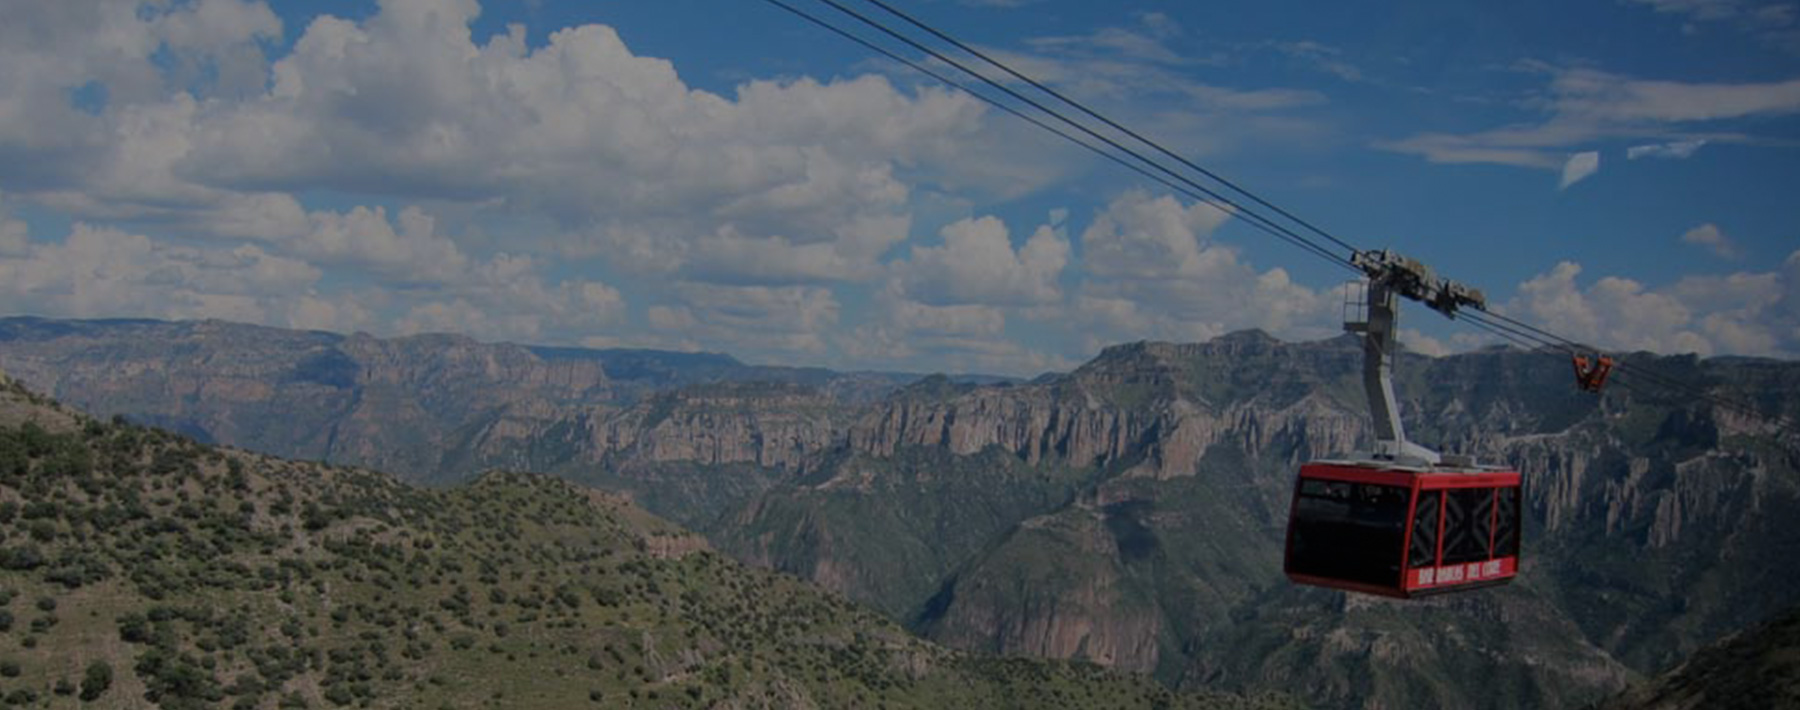
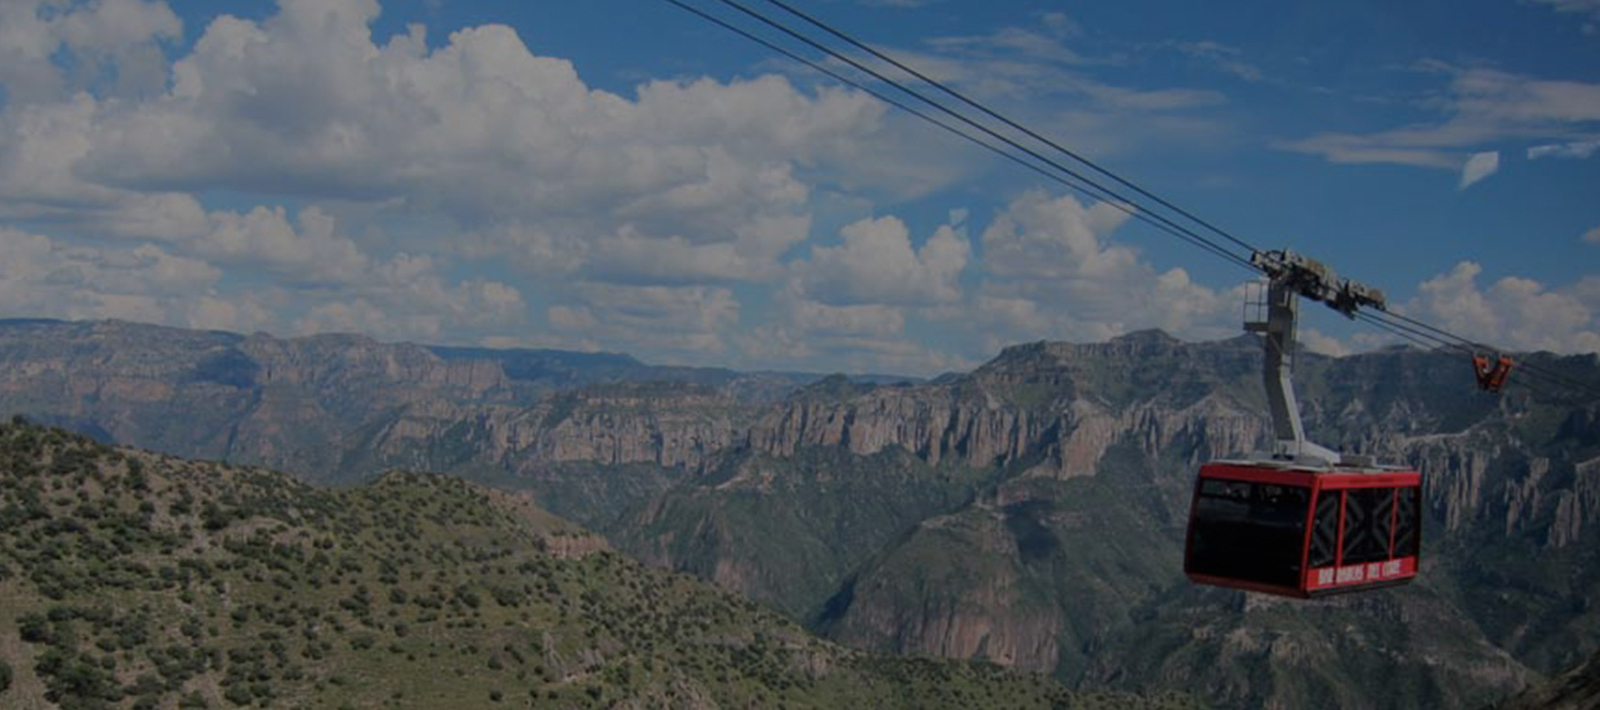
minor changes

diff --git a/public/css/style.css b/public/css/style.css
@@ -377,13 +377,17 @@ body {
     background-color: #343438;
     opacity: .6;
     border: 1px solid #343438;
-    width: 18px;
-    height: 18px;
+    width: 16px;
+    height: 16px;
+    transition: background-color 300ms ease, border 300ms ease;
 }
 
 .banner .carousel .carousel-indicators li.active {
-    width: 20px;
-    height: 20px;
+    width: 18px;
+    height: 18px;
+    background-color: #ffd400;
+    border: 1px solid #ffd400;
+    opacity: 1;
 }
 
 /* NOSOTROS */
@@ -519,25 +523,25 @@ body {
 }
 
 /* BLOG */
-.blog .img-bg {
+.blog .blog-feed .img-bg {
     height: 400px;
 }
 
-.blog h4 {
+.blog .blog-feed h4 {
     font-size: 16x;
     margin: 20px 0;
 }
 
-.blog h5 {
+.blog .blog-feed h5 {
     color: #767d7f;
     margin: 0 0 15px 0;
 }
 
-.blog p {
+.blog .blog-feed p {
     margin-bottom: 15px;
 }
 
-.blog a {
+.blog .blog-feed a {
     color: #004875;
     text-decoration: none!important;
     display: inline-block;
@@ -546,16 +550,45 @@ body {
     transition: background 300ms ease;
 }
 
-.blog a:hover,
-.blog a:focus {
+.blog .blog-feed a:hover,
+.blog .blog-feed a:focus {
     color: #fff;
     background-color: #004875;
 }
 
-.blog a:focus {
+.blog .blog-feed a:focus {
     -moz-box-shadow:    inset 0 0 10px rgba(0,0,0,.4);
     -webkit-box-shadow: inset 0 0 10px rgba(0,0,0,.4);
     box-shadow:         inset 0 0 10px rgba(0,0,0,.4);
+}
+
+.blog .blog-nav {
+    margin-top: 30px;
+}
+
+.blog .blog-nav a i {
+    font-weight: 100;
+    font-size: 40px;
+    border-radius: 50%;
+    border: 2px solid #7f7f7f;
+    color: #7f7f7f;
+    position: relative;
+    height: 38px;
+    width: 38px;
+}
+
+.blog .blog-nav a i::before {
+    top: 50%;
+    transform: translateY(-50%);
+    position: absolute;
+}
+
+.blog .blog-nav a i.fa-angle-left::before {
+    left: 7px;
+}
+
+.blog .blog-nav a i.fa-angle-right::before {
+    right: 7px;
 }
 
 /* REGISTRO */
@@ -615,11 +648,14 @@ footer .container {
 }
 
 footer .footer-top {
-    padding: 100px 0;
+    padding: 30px 0;
+}
+
+footer .footer-top div[class*=col-] {
+    padding: 0;
 }
 
 footer .footer-top .social {
-    position: absolute;
     float: right;
     top: 30px;
     right: 0;
@@ -638,14 +674,17 @@ footer .footer-top .social i {
     margin: 0 3px;
 }
 
+footer .center-img {
+    margin: 30px 0 50px 0;
+}
+
 footer ul {
     display: block;
-    position: absolute;
+    position: relative;
     left: 50%;
     transform: translateX(-50%);
     margin: 0;
     padding: 0;
-    bottom: 60px;
     width: 100%;
     text-align: center;
 }
@@ -757,6 +796,11 @@ footer .footer-bottom p {
     }
     .navbar .navbar-nav .dropdown .dropdown-menu li a {
         font-size: 11px;
+    }
+    footer .footer-top .social {
+        float: none;
+        text-align: center;
+        margin-top: 20px;
     }
 }
 

diff --git a/public/js/app.js b/public/js/app.js
@@ -35,7 +35,8 @@ $(document).ready(function () {
         var parallaxEl = $(this);
         var height = '100vh';
         var heightAttr = parallaxEl.data('height');
-        var positionAttr = parallaxEl.data('position');
+        var positionAttrY = 'center';
+        var positionAttrX = 'center';
 
         if( heightAttr != null) {
             if(heightAttr == 'parent') {
@@ -45,20 +46,18 @@ $(document).ready(function () {
             }
         }
 
-        console.log(positionAttr);
-
-        switch (positionAttr) {
-            case 'top':
-                parallaxEl.css('top','0');
-                break;
-            case 'bottom':
-                parallaxEl.css('bottom','0');
-                break;
+        if( parallaxEl.data('positionx') != null ) {
+            positionAttrX = parallaxEl.data('positionx');
         }
+        if( parallaxEl.data('positiony') != null ) {
+            positionAttrY = parallaxEl.data('positiony');
+        }
+
+        console.log(positionAttrY + ' ' + positionAttrX);
 
         parallaxEl.css('background-image', 'url("' + parallaxEl.data('parallax') + '")');
         parallaxEl.css('background-repeat', 'no-repeat');
-        parallaxEl.css('background-position', 'center center');
+        parallaxEl.css('background-position', positionAttrY + ' ' + positionAttrX);
         parallaxEl.css('height', height);
     });
 });

diff --git a/resources/views/layouts/header.blade.php b/resources/views/layouts/header.blade.php
@@ -52,21 +52,16 @@
             <div class="collapse navbar-collapse" id="navbar-collapse">
                 <ul class="nav navbar-nav">
                     <li class="dropdown">
-                        <a href="#" class="dropdown-toggle" data-toggle="dropdown" role="button" aria-haspopup="true" aria-expanded="false">¿POR QUÉ CHIHUAHUA?</a>
+                        <a href="#" class="dropdown-toggle" data-toggle="dropdown" role="button" aria-haspopup="true" aria-expanded="false">¿QUIÉNES SOMOS?</a>
                         <ul class="dropdown-menu">
-                            <li><a href="#">MENSAJE DEL GOBERNADOR</a></li>
-                            <li><a href="#">CALIDAD DE VIDA</a></li>
-                            <li><a href="#">CENTROS DE I Y D</a></li>
-                            <li><a href="#">TALENTO HUMANO</a></li>
-                            <li><a href="#">INFRAESTRUCTURA</a></li>
-                            <li><a href="#">GENERALES</a></li>
-                            <li><a href="#">UBICACIÓN ESTRATÉGICA</a></li>
+                            <li><a href="#">MISIÓN</a></li>
+                            <li><a href="#">VISIÓN</a></li>
+                            <li><a href="#">VALORES</a></li>
+                            <li><a href="#">ESTRUCTURA</a></li>
                         </ul>
                     </li>
-                    <li><a href="#">CENTRO DE INFORMACIÓN</a></li>
-                    <li><a href="#">APOYA A TU NEGOCIO</a></li>
-                    <li><a href="#">EMPRENDEDORES</a></li>
-                    <li><a href="#">VISÍTANOS</a></li>
+                    <li><a href="#">CONTACTO</a></li>
+                    <li><a href="#">TRANSPARENCIA</a></li>
                 </ul>
             </div>
         </div>

diff --git a/resources/views/layouts/footer.blade.php b/resources/views/layouts/footer.blade.php
@@ -1,15 +1,24 @@
 <footer>
     <div class="parallax">
-        <div class="parallax-element" data-parallax="{{ asset('img/index/footer.jpg') }}" data-height="parent"></div>
+        <div class="parallax-element" data-parallax="{{ asset('img/index/footer.jpg') }}" data-positiony="top"></div>
     </div>
     <div class="container">
         <div class="footer-top">
-            <div class="social">
-                <a href="#"><i class="fa fa-facebook" aria-hidden="true"></i></a>
-                <a href="#"><i class="fa fa-twitter" aria-hidden="true"></i></a>
-                <a href="#"><i class="fa fa-tumblr" aria-hidden="true"></i></a>
+            <div class="row no-margin">
+                <div class="col-sm-6">
+                    <img class="img-responsive center-block" src="{{ asset('img/index/footer/side.png') }}" alt="Chihuahua">
+                </div>
+                <div class="col-sm-6">
+                    <div class="social">
+                        <a href="#"><i class="fa fa-facebook" aria-hidden="true"></i></a>
+                        <a href="#"><i class="fa fa-twitter" aria-hidden="true"></i></a>
+                        <a href="#"><i class="fa fa-tumblr" aria-hidden="true"></i></a>
+                    </div>
+                </div>
             </div>
-            <img class="img-responsive center-block" src="{{ asset('img/index/footer/chihuahua.png') }}" alt="Chihuahua">
+            <div class="center-img">
+                <img class="img-responsive center-block" src="{{ asset('img/index/footer/chihuahua.png') }}" alt="Chihuahua">
+            </div>
             <ul>
                 <li><a href="">INICIO</a></li>
                 <li><a href="">VÍNCULOS DE INTERÉS</a></li>

diff --git a/resources/views/index.blade.php b/resources/views/index.blade.php
@@ -208,7 +208,7 @@
 <!-- ================================== -->
 <div class="aventura" id="aventura">
     <div class="parallax">
-        <div class="parallax-element" data-parallax="{{ asset('img/index/aventura.jpg') }}"></div>
+        <div class="parallax-element" data-parallax="{{ asset('img/index/aventura.jpg') }}" data-positionx="right"></div>
     </div>
     <div class="container text-center">
         <img src="{{ asset('img/index/barrancas.png') }}" alt="Barrancas del Cobre">
@@ -223,7 +223,7 @@
 <div class="blog spacing" id="blog">
     <div class="container">
         <h1 class="heading heading-right text-right">BLOG DE <span>NOTCIAS</span></h1>
-        <div class="row no-margin text-center">
+        <div class="row no-margin text-center blog-feed">
             <div class="col-sm-4">
                 <div class="img-bg" style="background: url({{ asset('img/index/blog/1.jpg') }})"></div>
                 <h4 class="bold">Arranca Programa de Capacitación</h4>
@@ -254,6 +254,10 @@
                 </p>
                 <a href="#">LEER MÁS</a>
             </div>
+        </div>
+        <div class="blog-nav text-center">
+            <a href="#"><i class="fa fa-angle-left" aria-hidden="true"></i></a>
+            <a href="#"><i class="fa fa-angle-right" aria-hidden="true"></i></a>
         </div>
     </div>
 </div>
